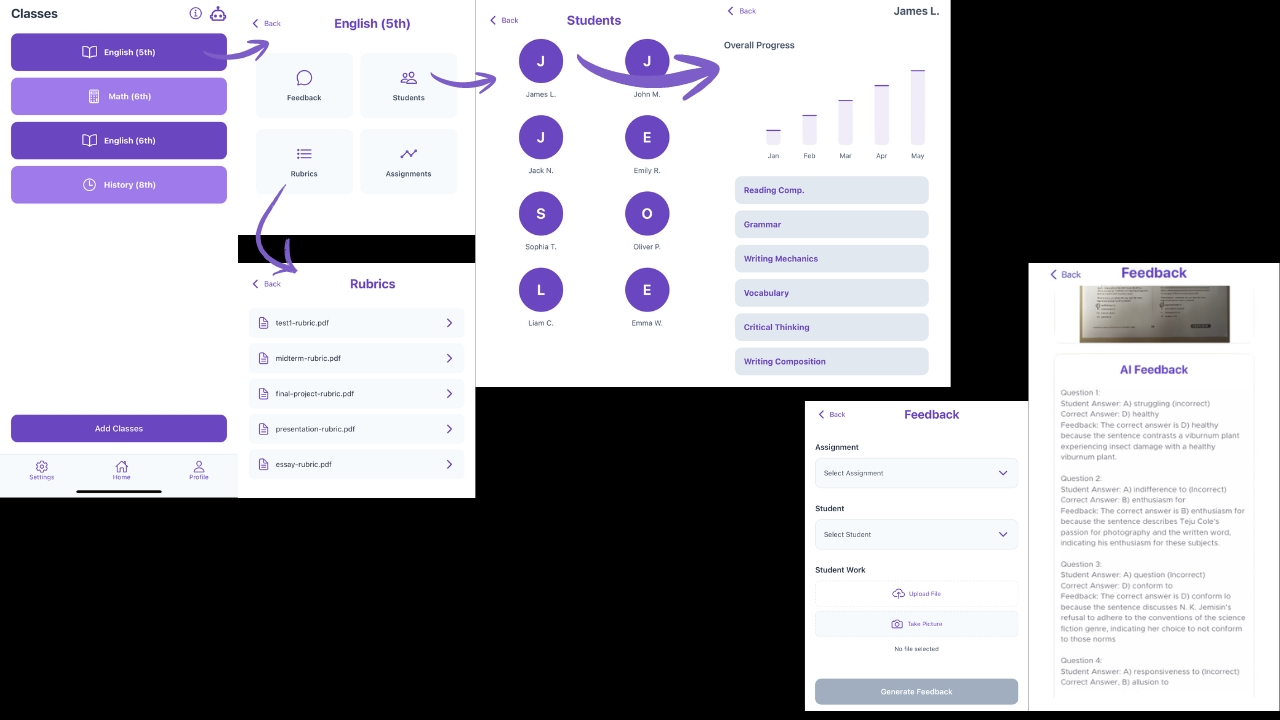
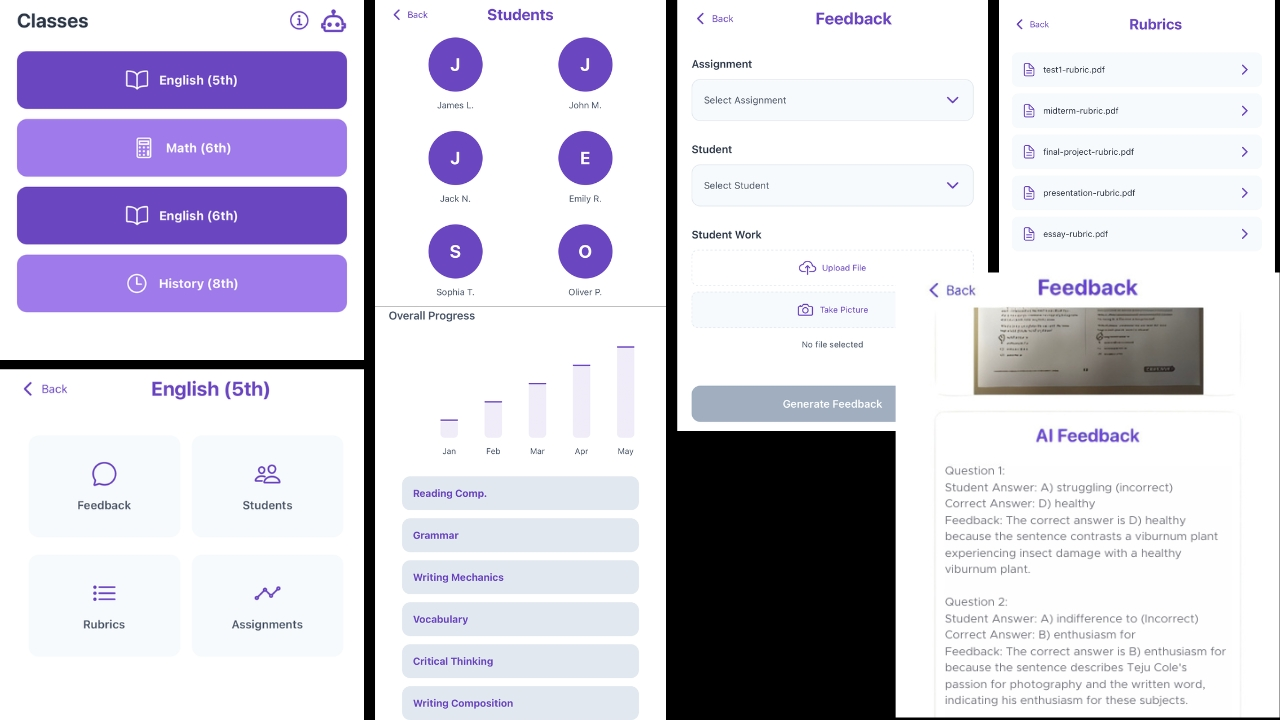
added images for volunteerverse
also changed main thesis image. still need to uploasd volunteerverse demo

diff --git a/work/volunteerverse/index.html b/work/volunteerverse/index.html
@@ -137,7 +137,7 @@
               alt="VolunteerVerse mobile app screens"
             />
             <figcaption class="photo-caption">
-              VolunteerVerse makes it easy for community organizations to post shifts and for local volunteers to find and track ways to help.
+              VolunteerVerse makes it easy for community organizations to post shifts and for local volunteers to find ways to help.
             </figcaption>
           </figure>
         </section>
@@ -151,10 +151,10 @@
             </div>
             <div class="case-body">
               <p>
-                Finding ways to volunteer in your own neighborhood shouldn't require detective work. Usually, people looking to help out have to piece together information from Instagram stories, Facebook groups, Craigslist posts, and outdated nonprofit websites.
+                Finding ways to volunteer in your own neighborhood shouldn't require detective work. Usually, people looking to help out have to piece together information from across Instagram stories, local Facebook groups, and outdated nonprofit websites.
               </p>
               <p>
-                On the other side, local organizations often struggle to get the word out and keep track of who is actually coming to help. We built VolunteerVerse so both sides could meet in one place: organizations can create profiles and post upcoming events, and volunteers can discover causes they care about, sign up for shifts, and keep track of their schedule.
+                On the other side, local organizations often struggle to get the word out and keep track of who has committed to helping. We built VolunteerVerse so both sides could meet in one place: organizations can create profiles, post upcoming events, and track signups, and volunteers can discover causes they care about, sign up for shifts, and keep track of their volunteering schedule.
               </p>
             </div>
           </div>
@@ -169,7 +169,7 @@
             </div>
             <div class="case-body">
               <p>
-                Working on a three-person team for CS 147L, I wore a lot of hats across design and engineering. I started by scoping out our core features and designing the initial app screens, then spent most of the project building the React Native frontend and hooking it up to our Supabase database.
+                Working on a three-person team for CS 147L, I worked across design and engineering. I started by scoping out our core features and designing the initial app screens, then spent most of the project building the React Native frontend and hooking it up to our Supabase database.
               </p>
               <p>
                 I built the login, authentication, and onboarding flows so individual volunteers and local organizations could set up and manage their profiles.
@@ -214,10 +214,10 @@
             </div>
             <div class="case-body">
               <p>
-                With a small team and a single academic quarter to build, our biggest challenge was deciding where to spend our time.
+                With a small team and 4 weeks to build, our biggest challenge was deciding where to spend our time.
               </p>
                 <p>
-                  Early on, it was suggested that we add a map view so volunteers could browse opportunities by location. While a map would have looked nice in a demo, building it properly alongside everything else would have stretched us thin. Rather than faking extra features with hardcoded placeholder data, we chose to narrow our scope and make the core app genuinely work—delivering a real, database-backed experience on Expo Go where accounts, event creation, and shift signups worked end to end.
+                  Early on, we imagined the main screen being a map view so volunteers could browse opportunities by location. While this was a cool idea, we ran into issues with our free map APIs. Rather than spending time re-working this functionality, we chose to pivot to a more straightforward UX. Our final product was database-backed and fully usable, meaning user and org accounts, event creation, and shift signups worked end to end.
                 </p>
           </div>
         </section>
@@ -232,7 +232,7 @@
           <div class="embed-grid">
             <div class="embed-card">
               <div class="embed-header">
-                <span class="embed-title">VolunteerVerse on Expo Go — Walkthrough</span>
+                <span class="embed-title">VolunteerVerse Demo Video</span>
                 <a href="../../assets/video/volunteerverse-demo.mp4" target="_blank" rel="noopener noreferrer">Open Video ↗</a>
               </div>
               <video class="embed-frame" controls preload="metadata">

diff --git a/about/index.html b/about/index.html
@@ -191,11 +191,11 @@
                 <div>
                   <h4 class="experience-role">Album Manager & Lead Recording Engineer (Senior Year)</h4>
                   <p class="experience-desc">
-                    I managed production for our upcoming studio album, <em>Ashes to Ashes</em>. I engineered our recording sessions, kept the production schedule on track, and coordinated with outside contractors for editing, mixing, mastering, licensing, cover art, and streaming distribution.
+                    I managed production for our upcoming studio album <em>Ashes to Ashes</em>. I recorded over half of the tracks, set our production schedule, and coordinated with contractors for editing, mixing, mastering, cover art, licensing, and distribution.
                   </p>
                 </div>
                 <div>
-                  <h4 class="experience-role">Publicity Director (All Four Years)</h4>
+                  <h4 class="experience-role">Publicity Director</h4>
                   <p class="experience-desc">
                     I designed 6 concert posters and programs, 3 audition season campaigns, and 4 years of group merch. I also rebuilt our website, which grew our average monthly traffic by 75% and doubled traffic during fall auditions.
                   </p>
